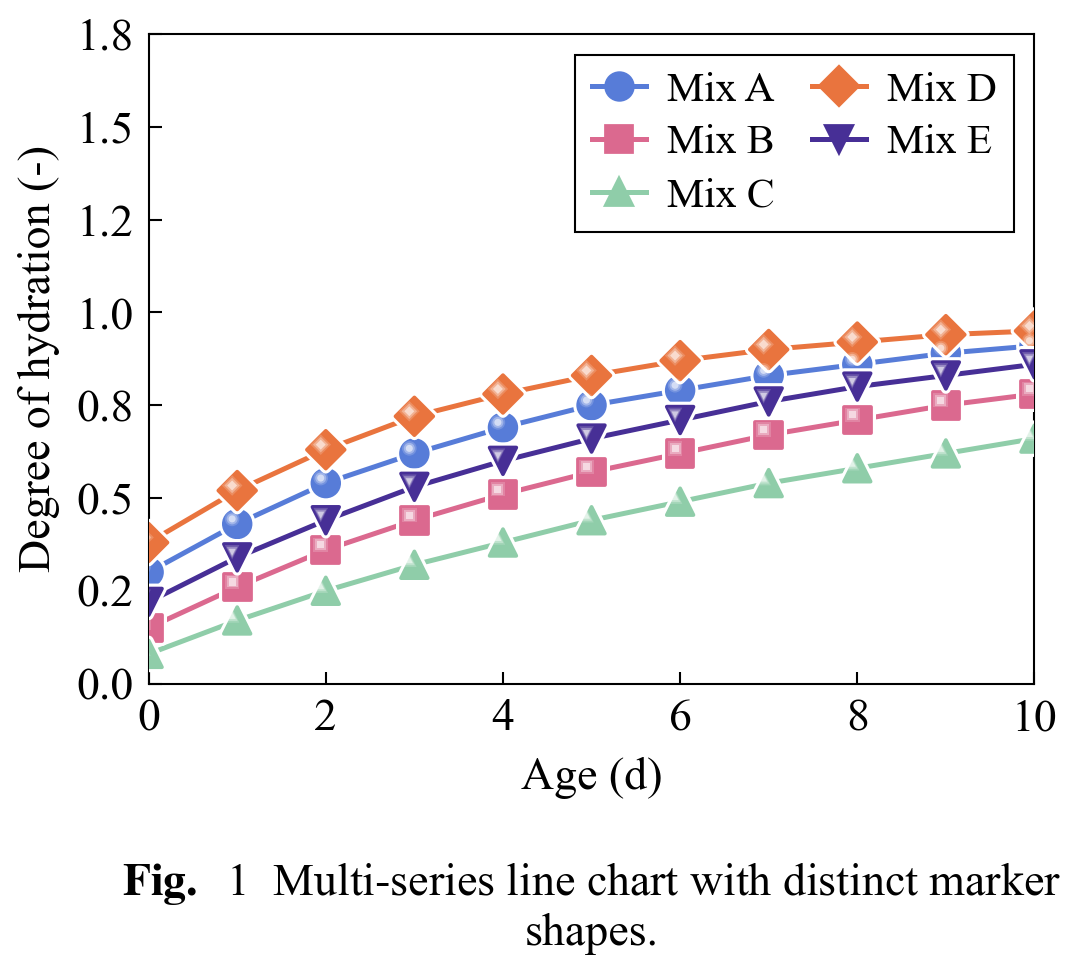
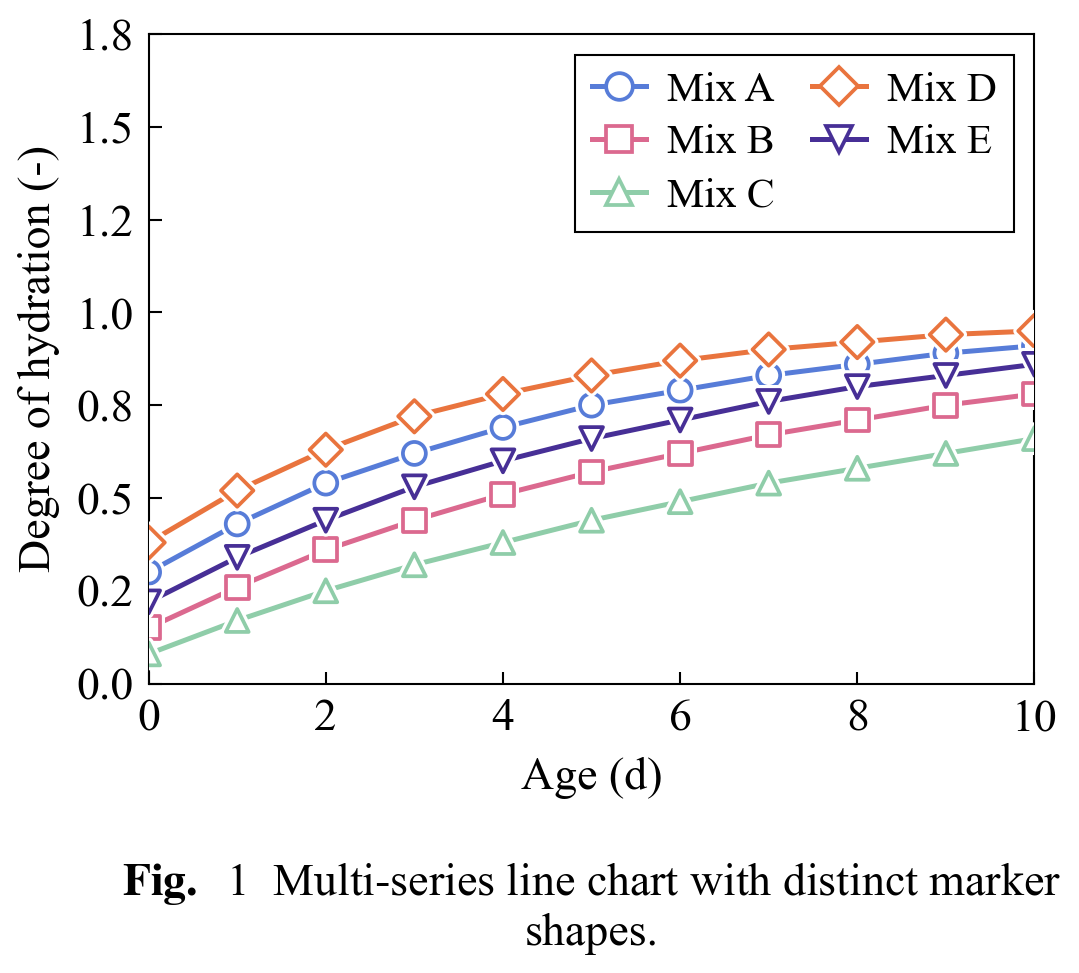
Glossy ball is circle-only; shape-distinguished figures go flat throughout

diff --git a/assets/wxl_style.py b/assets/wxl_style.py
@@ -296,11 +296,14 @@ def paint_markers(ax, x, y, color, style=None, ms=None, mew=None, gap=None,
     Draw the line first (``ax.plot(x, y, "-", ...)``) and the points on top at a
     higher ``zorder``; that ordering is what makes the halo erase the line.
 
-    ``marker`` selects the shape. The highlight layers reuse it, so a triangle
-    gets a lit facet rather than a round glint spilling past its edges.
+    ``marker`` selects the shape. The glossy ball is a ball, so it only applies to
+    circles: any other shape is drawn flat, because a specular highlight on a
+    square or a triangle reads as a smudge. A figure that distinguishes its
+    series by shape therefore goes flat throughout - pass ``gloss=False`` so the
+    whole set matches instead of mixing one glossy circle with flat shapes.
 
     The halo is white paint, not a geometric break, so whatever sits behind the
-    series must be white. Set ``gloss=False`` for a flat white-cored marker.
+    series must be white.
 
     Returns nothing; use :func:`marker_handle` for a matching legend entry.
     """
@@ -309,6 +312,7 @@ def paint_markers(ax, x, y, color, style=None, ms=None, mew=None, gap=None,
     mew = st.marker_edge_width if mew is None else mew
     gap = st.marker_gap if gap is None else gap
     gloss = st.marker_gloss if gloss is None else gloss
+    gloss = bool(gloss) and marker == "o"      # the highlight is circle-only
     x = np.asarray(x, float)
     y = np.asarray(y, float)
 
@@ -332,21 +336,22 @@ def paint_markers(ax, x, y, color, style=None, ms=None, mew=None, gap=None,
                path_effects=halo)
 
 
-def marker_handle(color, label, style=None, ms=None, mew=None):
+def marker_handle(color, label, style=None, ms=None, mew=None, marker: str = "o"):
     """Legend handle matching :func:`paint_markers`.
 
     A legend entry cannot host the offset highlight layers, so a glossy series
-    gets a flat solid dot of the same colour and size.
+    gets a flat solid dot of the same colour; a non-circle marker is flat with a
+    white core, matching how it is drawn.
     """
     st = style or DEFAULT_STYLE
     ms = st.marker_size if ms is None else ms
     mew = st.marker_edge_width if mew is None else mew
     # ``color`` matters even with linestyle="none": the style audit reads
     # get_color(), and an unset colour falls back to the default tab:blue.
-    if st.marker_gloss:
-        return Line2D([], [], linestyle="none", marker="o", ms=ms,
+    if st.marker_gloss and marker == "o":
+        return Line2D([], [], linestyle="none", marker=marker, ms=ms,
                       color=color, mfc=color, mec=color, mew=0.0, label=label)
-    return Line2D([], [], linestyle="none", marker="o", ms=ms, color=color,
+    return Line2D([], [], linestyle="none", marker=marker, ms=ms, color=color,
                   mfc="white", mec=color, mew=mew, label=label)
 
 
@@ -356,12 +361,14 @@ def plot_series(ax, x, y, color, label=None, style=None, lw=None, ms=None,
     """The house line-plus-points call: a curve with WXL markers on top.
 
     Equivalent to ``ax.plot(x, y, "-", color=color, lw=lw)`` followed by
-    :func:`paint_markers`, and returns a legend handle for the pair.
+    :func:`paint_markers`, and returns a legend handle for the pair. The glossy
+    ball is circle-only, so a shape-distinguished figure wants ``gloss=False`` on
+    every series instead of mixing one glossy circle with flat shapes.
     """
     st = style or DEFAULT_STYLE
     lw = st.line_width if lw is None else lw
     ms = st.marker_size if ms is None else ms
-    glossy = st.marker_gloss if gloss is None else gloss
+    glossy = (st.marker_gloss if gloss is None else gloss) and marker == "o"
     ax.plot(x, y, linestyle, color=color, lw=lw, zorder=zorder)
     paint_markers(ax, x, y, color, style=st, ms=ms, mew=mew, gap=gap,
                   gloss=gloss, marker=marker, zorder=zorder + 1.0)

diff --git a/examples/gallery.py b/examples/gallery.py
@@ -87,7 +87,10 @@ def fig_line_markers():
     ]
     handles = []
     for name, key, mk, vals in series:
-        handles.append(plot_series(ax, x, vals, PL[key], label=name, marker=mk))
+        # shapes carry the identity here, so the whole figure goes flat: the
+        # glossy ball is circle-only
+        handles.append(plot_series(ax, x, vals, PL[key], label=name, marker=mk,
+                                   gloss=False))
     ax.set_xlabel("Age (d)")
     ax.set_ylabel("Degree of hydration (-)")
     ax.set_xlim(0, 10)
@@ -203,7 +206,8 @@ def fig_line_trend():
     handles = []
     for name, key, mk, base, slope in curves:
         y = base + slope * x + RNG.normal(0, 0.005, x.size)
-        handles.append(plot_series(ax, x, y, PL[key], label=name, marker=mk))
+        handles.append(plot_series(ax, x, y, PL[key], label=name, marker=mk,
+                                   gloss=False))
     ax.set_xlabel("Epoch")
     ax.set_ylabel("Score")
     framed_legend(ax, handles=handles, loc="upper left", ncol=2,
@@ -633,9 +637,9 @@ def fig_multi_panel():
     ax = axes[1]
     x = np.linspace(0, 10, 11)
     handles = [plot_series(ax, x, 0.5 + 0.03 * x, PL["primary"], label="Curve 1",
-                           marker="o"),
+                           marker="o", gloss=False),
                plot_series(ax, x, 0.45 + 0.02 * x, PL["improve"], label="Curve 2",
-                           marker="s")]
+                           marker="s", gloss=False)]
     ax.set_xlabel("Time (s)")
     ax.set_ylabel("Amplitude")
     framed_legend(ax, handles=handles, loc="upper left")
@@ -701,9 +705,9 @@ def fig_multi_panel_1x3():
     ax = axes[1]
     x = np.linspace(0, 10, 11)
     handles = [plot_series(ax, x, 0.5 + 0.03 * x, PL["primary"], label="Curve 1",
-                           marker="o"),
+                           marker="o", gloss=False),
                plot_series(ax, x, 0.45 + 0.02 * x, PL["improve"], label="Curve 2",
-                           marker="s")]
+                           marker="s", gloss=False)]
     ax.set_xlabel("Time (s)")
     ax.set_ylabel("Amplitude")
     ax.set_ylim(0.35, 0.95)

diff --git a/README.md b/README.md
@@ -280,7 +280,7 @@ accepted by the audit for backward compatibility.
 | Attribute | Options |
 |---|---|
 | Markers | open circle (default), square, triangle, diamond, down-triangle, or none for dense data |
-| Marker fill | glossy ball (a filled circle with a soft specular highlight); optionally a flat white core with a coloured edge, which survives a black-and-white print best |
+| Marker fill | glossy ball - **circle only** (a filled circle with a soft specular highlight); every other shape is flat with a white core and a coloured edge, which also survives a black-and-white print best |
 | Marker size | 6.4 pt (house default); smaller for a point cloud (see below) |
 | Marker edge | 0.9 pt (house default) |
 | Marker gap | 1.2 pt of line erased around every marker, so the line reads as stopping short of each point |
@@ -305,16 +305,20 @@ every marker instead of running through it. Use `paint_markers` directly when th
 points are not threaded on a line (for example a scatter with a separate fit), and
 `marker_handle` for a matching legend entry.
 
-Three things to know:
+Four things to know:
 
+- **The glossy ball is circle-only.** A specular highlight on a square or a
+  triangle reads as a smudge, so `paint_markers` and `plot_series` silently draw
+  any non-circle marker flat. Because of that, **a figure that distinguishes its
+  series by shape must go flat throughout** - pass `gloss=False` on every series
+  rather than mixing one glossy circle with flat squares and triangles.
 - **The gap is white paint, not a geometric break.** Whatever sits behind the
   series must be white, or the halo will erase it too.
-- **A legend cannot host the offset highlight**, so a legend entry is a flat
-  solid dot of the same colour and size.
+- **A legend cannot host the offset highlight**, so a glossy series gets a flat
+  solid dot of the same colour and size, and a flat series gets its white core.
 - **The highlight only reads at larger sizes.** Below roughly 5 pt it looks like a
   plain filled dot, and it degrades in greyscale or CMYK print. For a figure that
-  must survive black-and-white printing, pass `gloss=False` for a flat white core,
-  where only the marker shape separates the series.
+  must survive black-and-white printing, pass `gloss=False`.
 
 Point clouds (a 45-point scatter, a jittered strip) pass an explicit smaller `ms`,
 because 6.4 pt across a few dozen points becomes a blob; `scatter_fit`, `bubble`

diff --git a/references/preferences.md b/references/preferences.md
@@ -56,7 +56,7 @@ Ask markers, line width, and dash pattern per series.
 
 | Attribute | Default | Alternatives |
 |---|---|---|
-| markers | glossy ball, `ms=6.4`, `mew=0.9`, `gap=1.2` pt | flat white core, square `s`, triangle `^`, diamond `D`, or none for dense data |
+| markers | glossy ball (circle only), `ms=6.4`, `mew=0.9`, `gap=1.2` pt | flat white core for shape-distinguished series, or none for dense data |
 | line width | 1.2 pt | 1.2 pt (fixed; a heavier line reads as emphasis by accident) |
 | dash | solid for the main series | dashed `--` for a reference / baseline / fitted model |
 | marker frequency | every point | every 2nd-5th for dense data, or markers on a subset |

diff --git a/references/api.md b/references/api.md
@@ -121,6 +121,11 @@ Draws one series' points only - the glossy ball plus the white gap halo - for th
 case where the points are not threaded on a line (a scatter with a separate fit
 line, a strip plot). Draw the line first at a lower `zorder`.
 
+The glossy ball is **circle-only**: `marker` selects the shape, and any non-circle
+shape is drawn flat with a white core, because a specular highlight on a square or
+a triangle reads as a smudge. A figure that tells its series apart by shape
+therefore passes `gloss=False` on every series.
+
 ```python
 ax.plot(x, y, "-", color=PL["primary"], lw=1.2, zorder=2)
 paint_markers(ax, x, y, PL["primary"])

diff --git a/SKILL.md b/SKILL.md
@@ -133,7 +133,7 @@ These rules supersede any conflicting style text in `references/` or in upstream
 |---|---|---|
 | Chart type | which chart, how many panels | grouped bar / trend / ... |
 | Axis labels | x and y text, units, italic or not | italic symbol, upright unit |
-| Line style | markers, width, dash pattern | glossy markers 6.4 pt, 1.2 pt line, 1.2 pt gap, solid |
+| Line style | markers, width, dash pattern | glossy ball (circle only) 6.4 pt, 1.2 pt line, 1.2 pt gap, solid |
 | Colours | per-series colours; colormap for matrices | soft science `WXL_PALETTE` |
 
 For a variable, italicise the symbol and keep the unit upright, e.g.
